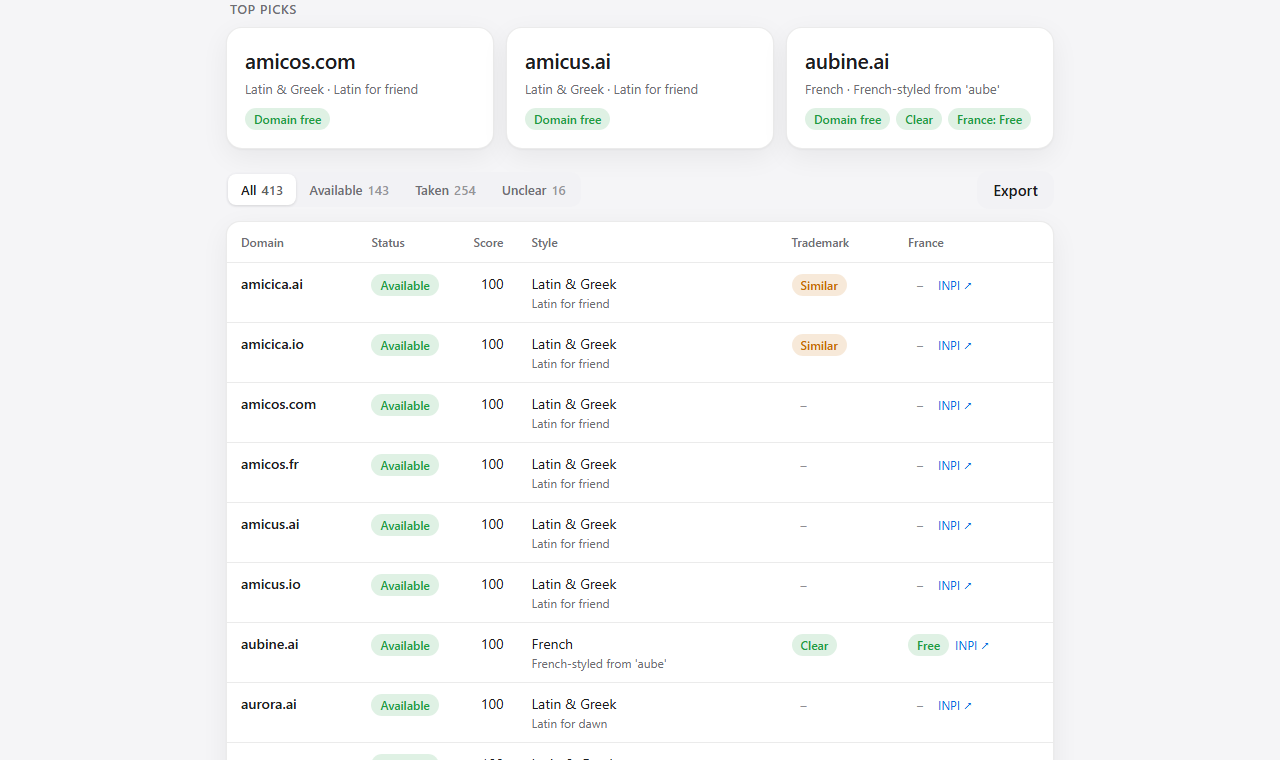
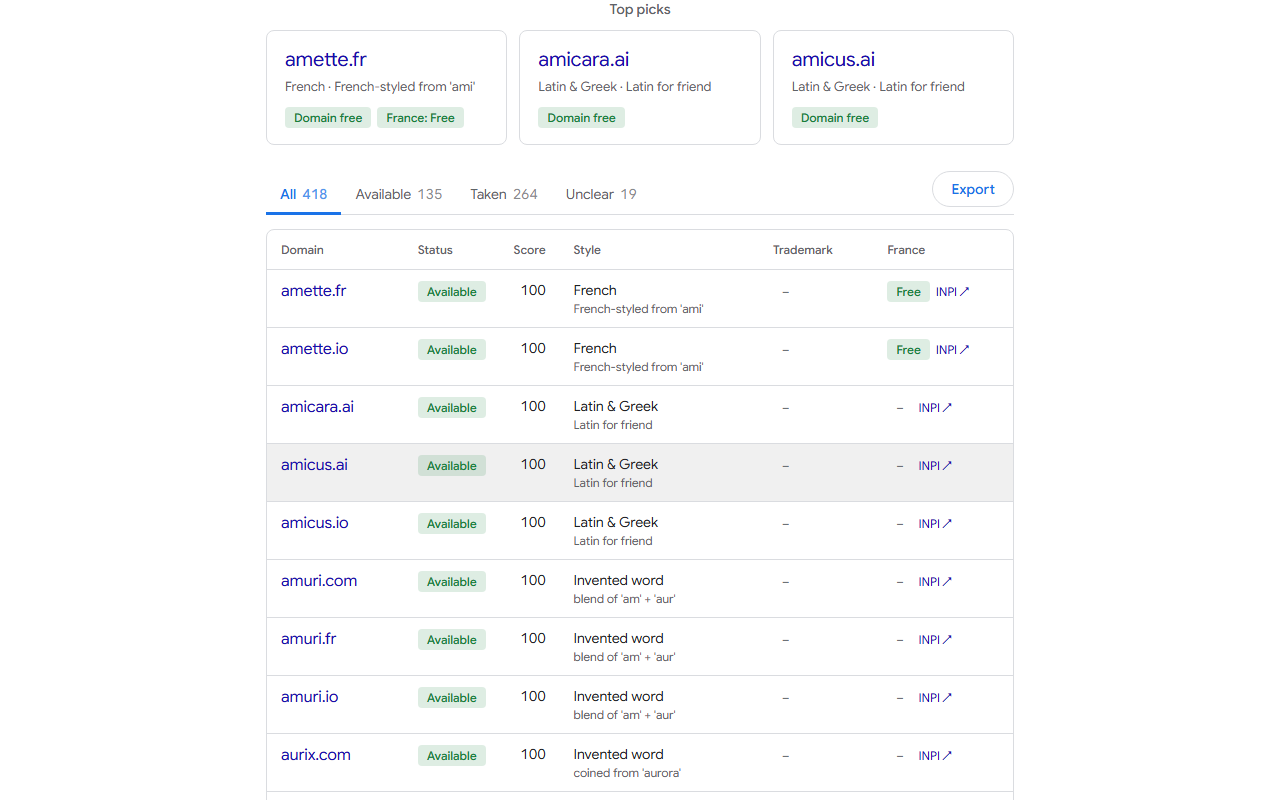
Google-style look and a light/dark mode switch
- Restyle the web UI after Google search: Google Sans font, centered
  wordmark, rounded search box with magnifier, centered Find names
  button, filter chips, tab-style result filters, link-blue domains,
  Google light and dark palettes.
- Round button in the top-right corner switches light/dark mode.
  Light is the default; the user's choice is remembered.
- README and screenshots updated.

diff --git a/namestack/server.py b/namestack/server.py
@@ -35,163 +35,185 @@ INDEX_HTML = r"""<!doctype html>
 <meta charset="utf-8">
 <meta name="viewport" content="width=device-width, initial-scale=1">
 <title>namestack</title>
+<link rel="preconnect" href="https://fonts.googleapis.com">
+<link rel="preconnect" href="https://fonts.gstatic.com" crossorigin>
+<link rel="stylesheet" href="https://fonts.googleapis.com/css2?family=Google+Sans:wght@400;500;700&display=swap">
+<script>
+try{ const t=localStorage.getItem('namestack.theme'); if(t==='light'||t==='dark') document.documentElement.dataset.theme=t; }catch{}
+</script>
 <style>
 :root{
-  --bg:#f5f5f7; --card:#fff; --field:#f2f2f5; --sep:rgba(0,0,0,.08); --text:#1d1d1f; --muted:#6e6e73;
-  --accent:#0071e3; --accent-soft:rgba(0,113,227,.1); --green:#1f9d3f; --red:#e0352b; --orange:#c76b00; --gray:#8e8e93;
-  --shadow:0 1px 2px rgba(0,0,0,.04),0 8px 28px rgba(0,0,0,.06); --tip-bg:rgba(29,29,31,.94); --tip-text:#fff;
-  color-scheme:light;
+  --bg:#fff; --card:#fff; --field:#f1f3f4; --hover:rgba(60,64,67,.08); --sep:#dadce0; --text:#202124; --muted:#5f6368;
+  --accent:#1a73e8; --on-accent:#fff; --accent-soft:#e8f0fe; --accent-text:#1967d2; --link:#1a0dab;
+  --green:#188038; --red:#d93025; --orange:#b06000; --gray:#5f6368;
+  --lift:0 1px 6px rgba(32,33,36,.28); --menu-shadow:0 2px 10px rgba(32,33,36,.2);
+  --tip-bg:#3c4043; --tip-text:#fff; color-scheme:light;
 }
-@media (prefers-color-scheme:dark){:root:not([data-theme="light"]){
-  --bg:#000; --card:#1c1c1e; --field:#2c2c2e; --sep:rgba(255,255,255,.1); --text:#f5f5f7; --muted:#98989d;
-  --accent:#0a84ff; --accent-soft:rgba(10,132,255,.16); --green:#30d158; --red:#ff453a; --orange:#ff9f0a; --gray:#8e8e93;
-  --shadow:none; --tip-bg:rgba(242,242,247,.96); --tip-text:#1d1d1f; color-scheme:dark;
-}}
 :root[data-theme="dark"]{
-  --bg:#000; --card:#1c1c1e; --field:#2c2c2e; --sep:rgba(255,255,255,.1); --text:#f5f5f7; --muted:#98989d;
-  --accent:#0a84ff; --accent-soft:rgba(10,132,255,.16); --green:#30d158; --red:#ff453a; --orange:#ff9f0a; --gray:#8e8e93;
-  --shadow:none; --tip-bg:rgba(242,242,247,.96); --tip-text:#1d1d1f; color-scheme:dark;
+  --bg:#202124; --card:#303134; --field:#303134; --hover:rgba(232,234,237,.08); --sep:#5f6368; --text:#e8eaed; --muted:#9aa0a6;
+  --accent:#8ab4f8; --on-accent:#202124; --accent-soft:#394457; --accent-text:#d2e3fc; --link:#8ab4f8;
+  --green:#81c995; --red:#f28b82; --orange:#fdd663; --gray:#9aa0a6;
+  --lift:0 1px 6px rgba(0,0,0,.5); --menu-shadow:0 2px 10px rgba(0,0,0,.5);
+  --tip-bg:#e8eaed; --tip-text:#202124; color-scheme:dark;
 }
 *{box-sizing:border-box}
-body{margin:0;background:var(--bg);color:var(--text);min-height:100vh;-webkit-font-smoothing:antialiased;
-  font-family:-apple-system,BlinkMacSystemFont,"SF Pro Text","Segoe UI Variable","Segoe UI",system-ui,Roboto,Helvetica,Arial,sans-serif}
+body{margin:0;background:var(--bg);color:var(--text);min-height:100vh;transition:background .2s,color .2s;
+  font-family:"Google Sans",Roboto,Arial,sans-serif}
 button,input,select{font-family:inherit;color:inherit}
-.wrap{max-width:860px;margin:0 auto;padding:64px 16px 80px}
-.hero{text-align:center;margin-bottom:28px}
-.hero h1{font-size:44px;line-height:1.08;font-weight:700;letter-spacing:-.025em;margin:0 0 10px}
-.hero p{font-size:19px;color:var(--muted);margin:0}
+.topbar{display:flex;justify-content:flex-end;align-items:center;padding:10px 16px}
+.icon-btn{width:40px;height:40px;border-radius:50%;border:0;background:transparent;display:grid;place-items:center;cursor:pointer;color:var(--muted)}
+.icon-btn:hover{background:var(--hover)}
+.icon-btn svg{width:22px;height:22px;fill:currentColor}
+.wrap{max-width:780px;margin:0 auto;padding:28px 16px 80px}
+.hero{text-align:center;margin-bottom:26px}
+.logo{font-size:64px;line-height:1;font-weight:500;letter-spacing:-.02em;margin:0 0 14px}
+.logo span{color:var(--accent)}
+.hero p{font-size:16px;color:var(--muted);margin:0 auto;max-width:560px;line-height:1.5}
 
-.search{display:flex;align-items:center;gap:12px;background:var(--card);border-radius:18px;padding:8px 10px 8px 20px;
-  box-shadow:var(--shadow);border:1px solid var(--sep)}
-.search:focus-within{border-color:var(--accent);box-shadow:0 0 0 4px var(--accent-soft)}
+.search{display:flex;align-items:flex-start;gap:14px;background:var(--card);border:1px solid var(--sep);border-radius:24px;
+  padding:4px 22px;transition:box-shadow .15s,border-color .15s}
+.search:hover,.search:focus-within{box-shadow:var(--lift);border-color:transparent}
+.search .mag{width:20px;height:20px;fill:var(--muted);flex:none;margin-top:30px}
 .fields{flex:1;min-width:0}
-.fld{display:block;padding:9px 0;cursor:text}
+.fld{display:block;padding:10px 0;cursor:text}
 .fld+.fld{border-top:1px solid var(--sep)}
-.fld .lbl{display:block;font-size:12px;font-weight:600;color:var(--muted);letter-spacing:.01em}
-.search input{width:100%;border:0;outline:0;background:transparent;font-size:19px;padding:3px 0 0}
-.search input::placeholder{color:var(--gray)}
-.btn{border:0;border-radius:12px;font-size:15px;font-weight:600;cursor:pointer;transition:background .15s,opacity .15s,transform .05s}
-.btn:active{transform:scale(.98)}
-.btn-primary{background:var(--accent);color:#fff;padding:13px 24px;font-size:17px;white-space:nowrap}
-.btn-primary:hover{filter:brightness(1.08)}
-.btn-primary.stop{background:var(--field);color:var(--text)}
-.btn-plain{background:var(--field);padding:9px 16px}
+.fld .lbl{display:block;font-size:12px;font-weight:500;color:var(--muted)}
+.search input{width:100%;border:0;outline:0;background:transparent;font-size:16px;padding:4px 0 0}
+.search input::placeholder{color:var(--muted);opacity:.75}
+.actions{display:flex;justify-content:center;margin-top:24px}
+.btn{border:0;border-radius:20px;font-size:14px;font-weight:500;cursor:pointer;transition:background .15s,box-shadow .15s;letter-spacing:.01em}
+.btn-primary{background:var(--accent);color:var(--on-accent);padding:0 26px;height:40px;white-space:nowrap}
+.btn-primary:hover{box-shadow:0 1px 3px rgba(60,64,67,.3),0 4px 8px 3px rgba(60,64,67,.15)}
+.btn-primary.stop{background:var(--field);color:var(--text);border:1px solid var(--sep)}
+.btn-plain{background:transparent;border:1px solid var(--sep);color:var(--accent);padding:0 18px;height:36px}
+.btn-plain:hover{background:var(--hover)}
 .btn-plain:disabled{opacity:.4;cursor:default}
-.words{min-height:20px;margin:12px 4px 0;font-size:13px;color:var(--muted);text-align:center;line-height:1.7}
-.words b{font-weight:600;color:var(--text);margin-right:4px}
+.words{min-height:20px;margin:14px 4px 0;font-size:13px;color:var(--muted);text-align:center;line-height:1.7}
+.words b{font-weight:500;color:var(--text);margin-right:4px}
 .words .w{white-space:nowrap}
 
-.section-label{font-size:13px;font-weight:600;color:var(--muted);text-transform:uppercase;letter-spacing:.04em;margin:30px 4px 10px}
-.styles{display:flex;flex-wrap:wrap;gap:8px}
-.chip{cursor:pointer;user-select:none;border:1px solid var(--sep);background:var(--card);border-radius:999px;padding:8px 15px;
-  font-size:14px;font-weight:500;transition:background .15s,border-color .15s,color .15s}
-.chip:hover{border-color:var(--gray)}
-.chip.on{background:var(--accent);border-color:var(--accent);color:#fff}
-.chip .flag{font-size:11px;font-weight:700;opacity:.75;margin-left:5px;letter-spacing:.03em}
+.section-label{font-size:14px;font-weight:500;color:var(--muted);text-align:center;margin:30px 4px 12px}
+.styles{display:flex;flex-wrap:wrap;gap:8px;justify-content:center}
+.chip{cursor:pointer;user-select:none;border:1px solid var(--sep);background:transparent;border-radius:8px;height:32px;padding:0 14px;
+  font-size:14px;font-weight:500;color:var(--muted);transition:background .15s,border-color .15s,color .15s;display:inline-flex;align-items:center}
+.chip:hover{background:var(--hover)}
+.chip.on{background:var(--accent-soft);border-color:transparent;color:var(--accent-text)}
+.chip.on::before{content:"\2713";margin-right:6px;font-weight:700}
+.chip .flag{font-size:11px;font-weight:700;opacity:.7;margin-left:6px;letter-spacing:.03em}
 
-.group{background:var(--card);border-radius:14px;box-shadow:var(--shadow);border:1px solid var(--sep);overflow:hidden;margin-top:28px}
+.group{background:var(--card);border:1px solid var(--sep);border-radius:8px;overflow:hidden;margin-top:30px}
 .group details+details{border-top:1px solid var(--sep)}
-.group summary{list-style:none;cursor:pointer;display:flex;align-items:center;gap:12px;padding:14px 18px;font-size:16px}
+.group summary{list-style:none;cursor:pointer;display:flex;align-items:center;gap:12px;padding:14px 18px;font-size:15px}
+.group summary:hover{background:var(--hover)}
 .group summary::-webkit-details-marker{display:none}
 .group summary .t{font-weight:500}
-.group summary .v{margin-left:auto;color:var(--muted);font-size:15px;text-align:right;overflow:hidden;text-overflow:ellipsis;white-space:nowrap}
+.group summary .v{margin-left:auto;color:var(--muted);font-size:14px;text-align:right;overflow:hidden;text-overflow:ellipsis;white-space:nowrap}
 .group summary .v.ok{color:var(--green)}
-.group summary::after{content:"";width:8px;height:8px;border-right:2px solid var(--gray);border-bottom:2px solid var(--gray);
-  transform:rotate(-45deg);transition:transform .2s;flex:none;margin-left:4px}
-.group details[open] summary::after{transform:rotate(45deg)}
-.panel{padding:4px 18px 18px;display:grid;gap:14px}
-.panel .hint{font-size:13px;color:var(--muted);margin:0;line-height:1.45}
+.group summary::after{content:"";width:7px;height:7px;border-right:2px solid var(--muted);border-bottom:2px solid var(--muted);
+  transform:rotate(45deg);transition:transform .2s;flex:none;margin:0 2px 4px 4px}
+.group details[open] summary::after{transform:rotate(-135deg);margin-bottom:-4px}
+.panel{padding:6px 18px 18px;display:grid;gap:14px}
+.panel .hint{font-size:13px;color:var(--muted);margin:0;line-height:1.5}
 .line{display:flex;align-items:center;gap:12px;flex-wrap:wrap}
 .line label{font-size:14px}
 .line .grow{flex:1}
-.field{background:var(--field);border:1px solid transparent;border-radius:10px;padding:9px 12px;font-size:14px;outline:0}
-.field:focus{border-color:var(--accent)}
+.field{background:transparent;border:1px solid var(--sep);border-radius:4px;padding:9px 12px;font-size:14px;outline:0}
+.field:focus{border-color:var(--accent);box-shadow:inset 0 0 0 1px var(--accent)}
+select.field{background:var(--card)}
 input[type=range]{accent-color:var(--accent);width:150px}
 input[type=number].field{width:84px}
 .val{font-variant-numeric:tabular-nums;color:var(--muted);font-size:14px;min-width:28px}
-.switch{position:relative;display:inline-flex;align-items:center;gap:10px;cursor:pointer;font-size:14px}
-.switch input{appearance:none;-webkit-appearance:none;width:42px;height:26px;border-radius:999px;background:var(--field);
-  border:1px solid var(--sep);position:relative;cursor:pointer;transition:background .2s;margin:0;flex:none}
-.switch input::after{content:"";position:absolute;top:2px;left:2px;width:20px;height:20px;border-radius:50%;background:#fff;
-  box-shadow:0 1px 3px rgba(0,0,0,.3);transition:transform .2s}
-.switch input:checked{background:var(--green);border-color:transparent}
-.switch input:checked::after{transform:translateX(16px)}
+.switch{position:relative;display:inline-flex;align-items:center;gap:12px;cursor:pointer;font-size:14px}
+.switch input{appearance:none;-webkit-appearance:none;width:36px;height:14px;border-radius:999px;background:var(--sep);
+  position:relative;cursor:pointer;transition:background .2s;margin:0 4px;flex:none;border:0}
+.switch input::after{content:"";position:absolute;top:-3px;left:-4px;width:20px;height:20px;border-radius:50%;background:#fff;
+  box-shadow:0 1px 3px rgba(0,0,0,.4);transition:transform .2s,background .2s}
+.switch input:checked{background:color-mix(in srgb,var(--accent) 50%,transparent)}
+.switch input:checked::after{transform:translateX(24px);background:var(--accent)}
 .switch input:disabled{opacity:.4;cursor:default}
 .tlds{display:flex;flex-wrap:wrap;gap:6px}
-.tlds .chip{padding:6px 12px;font-size:13px}
+.tlds .chip{height:30px;padding:0 11px;font-size:13px}
 .ai-grid{display:grid;grid-template-columns:110px 1fr;gap:10px;align-items:center}
 .ai-grid label{font-size:14px;color:var(--muted)}
 
 #results{display:none;margin-top:44px}
 #results.show{display:block}
-.progress{height:4px;background:var(--field);border-radius:999px;overflow:hidden}
+.progress{height:4px;background:var(--accent-soft);border-radius:999px;overflow:hidden}
 #bar{height:100%;width:0;background:var(--accent);transition:width .25s}
 .meta{display:flex;justify-content:space-between;font-size:13px;color:var(--muted);margin:8px 2px 18px}
-.picks{display:grid;grid-template-columns:repeat(auto-fit,minmax(220px,1fr));gap:12px;margin-bottom:22px}
-.pick{background:var(--card);border:1px solid var(--sep);border-radius:16px;padding:18px;box-shadow:var(--shadow)}
-.pick .d{font-size:21px;font-weight:600;letter-spacing:-.01em;word-break:break-all}
-.pick .s{font-size:13px;color:var(--muted);margin-top:6px;line-height:1.4}
+.picks{display:grid;grid-template-columns:repeat(auto-fit,minmax(220px,1fr));gap:12px;margin-bottom:26px}
+.pick{background:var(--card);border:1px solid var(--sep);border-radius:8px;padding:16px 18px}
+.pick .d{font-size:20px;color:var(--link);word-break:break-all}
+.pick .s{font-size:13px;color:var(--muted);margin-top:6px;line-height:1.45}
 .pick .tags{display:flex;gap:6px;flex-wrap:wrap;margin-top:10px}
-.toolbar{display:flex;align-items:center;gap:10px;flex-wrap:wrap;margin-bottom:12px}
-.seg{display:inline-flex;background:var(--field);border-radius:10px;padding:2px;flex-wrap:wrap}
-.seg button{border:0;background:transparent;border-radius:8px;padding:7px 13px;font-size:13px;font-weight:500;cursor:pointer;color:var(--muted)}
-.seg button.on{background:var(--card);color:var(--text);box-shadow:0 1px 3px rgba(0,0,0,.12)}
-.seg .n{font-variant-numeric:tabular-nums;margin-left:5px;opacity:.7}
-.menu{position:relative;margin-left:auto}
-.menu summary{list-style:none}
+.toolbar{display:flex;align-items:flex-end;gap:10px;flex-wrap:wrap;margin-bottom:14px;border-bottom:1px solid var(--sep)}
+.seg{display:inline-flex;flex-wrap:wrap}
+.seg button{border:0;background:transparent;padding:10px 14px 9px;font-size:14px;cursor:pointer;color:var(--muted);
+  border-bottom:3px solid transparent;margin-bottom:-1px}
+.seg button:hover{color:var(--text)}
+.seg button.on{color:var(--accent);border-bottom-color:var(--accent);font-weight:500}
+.seg .n{font-variant-numeric:tabular-nums;margin-left:6px;opacity:.75}
+.menu{position:relative;margin:0 0 7px auto}
+.menu summary{list-style:none;display:inline-flex;align-items:center}
 .menu summary::-webkit-details-marker{display:none}
-.menu .items{position:absolute;right:0;top:calc(100% + 6px);background:var(--card);border:1px solid var(--sep);border-radius:12px;
-  box-shadow:0 10px 30px rgba(0,0,0,.15);padding:6px;min-width:190px;z-index:20}
-.menu .items button{display:block;width:100%;text-align:left;border:0;background:transparent;padding:9px 12px;border-radius:8px;font-size:14px;cursor:pointer}
-.menu .items button:hover{background:var(--field)}
+.menu .items{position:absolute;right:0;top:calc(100% + 6px);background:var(--card);border-radius:4px;
+  box-shadow:var(--menu-shadow);padding:8px 0;min-width:200px;z-index:20}
+.menu .items button{display:block;width:100%;text-align:left;border:0;background:transparent;padding:10px 16px;font-size:14px;cursor:pointer}
+.menu .items button:hover{background:var(--hover)}
 .menu.disabled summary{opacity:.4;pointer-events:none}
-.table-card{background:var(--card);border:1px solid var(--sep);border-radius:14px;box-shadow:var(--shadow);overflow:hidden}
+.table-card{background:var(--card);border:1px solid var(--sep);border-radius:8px;overflow:hidden}
 .table-wrap{overflow-x:auto}
 table{width:100%;border-collapse:collapse;font-size:14px}
 thead th{text-align:left;color:var(--muted);font-weight:500;font-size:12px;padding:12px 14px;border-bottom:1px solid var(--sep);white-space:nowrap}
 tbody td{padding:11px 14px;border-bottom:1px solid var(--sep);vertical-align:top}
 tbody tr:last-child td{border-bottom:0}
-.dom{font-weight:600}
+tbody tr:hover{background:var(--hover)}
+.dom{color:var(--link);font-size:16px}
 .num{text-align:right;font-variant-numeric:tabular-nums}
 .why{font-size:12px;color:var(--muted);margin-top:2px}
-.badge{display:inline-block;padding:3px 9px;border-radius:999px;font-size:12px;font-weight:600;white-space:nowrap}
+.badge{display:inline-block;padding:3px 9px;border-radius:4px;font-size:12px;font-weight:500;white-space:nowrap}
 .b-green{background:color-mix(in srgb,var(--green) 14%,transparent);color:var(--green)}
 .b-red{background:color-mix(in srgb,var(--red) 13%,transparent);color:var(--red)}
-.b-orange{background:color-mix(in srgb,var(--orange) 15%,transparent);color:var(--orange)}
+.b-orange{background:color-mix(in srgb,var(--orange) 16%,transparent);color:var(--orange)}
 .b-gray{background:color-mix(in srgb,var(--gray) 15%,transparent);color:var(--gray)}
 .b-none{color:var(--gray)}
-.ext{font-size:12px;color:var(--accent);text-decoration:none;margin-left:6px;white-space:nowrap}
+.ext{font-size:12px;color:var(--link);text-decoration:none;margin-left:6px;white-space:nowrap}
 .ext:hover{text-decoration:underline}
 .col-fr{display:none}
 .has-fr .col-fr{display:table-cell}
 .rowcount{color:var(--muted);font-size:12px;padding:10px 14px}
 .empty{padding:28px;text-align:center;color:var(--muted);font-size:14px}
 
-#tip{position:fixed;z-index:100;max-width:280px;background:var(--tip-bg);color:var(--tip-text);font-size:13px;line-height:1.4;
-  padding:8px 11px;border-radius:9px;pointer-events:none;opacity:0;transform:translateY(3px);transition:opacity .15s,transform .15s;
-  box-shadow:0 6px 20px rgba(0,0,0,.2)}
-#tip.show{opacity:1;transform:none}
-#toast{position:fixed;left:50%;bottom:28px;transform:translateX(-50%);background:var(--tip-bg);color:var(--tip-text);
-  border-radius:12px;padding:12px 18px;font-size:14px;display:none;max-width:calc(100vw - 32px);z-index:60}
+#tip{position:fixed;z-index:100;max-width:280px;background:var(--tip-bg);color:var(--tip-text);font-size:12px;line-height:1.45;
+  padding:7px 10px;border-radius:4px;pointer-events:none;opacity:0;transition:opacity .15s}
+#tip.show{opacity:1}
+#toast{position:fixed;left:50%;bottom:24px;transform:translateX(-50%);background:var(--tip-bg);color:var(--tip-text);
+  border-radius:4px;padding:14px 16px;font-size:14px;display:none;max-width:calc(100vw - 32px);z-index:60;box-shadow:var(--menu-shadow)}
 @media (max-width:640px){
-  .wrap{padding-top:36px}
-  .hero h1{font-size:32px}.hero p{font-size:16px}
-  .search{flex-wrap:wrap;padding:8px}
-  .fields{flex-basis:100%;padding:0 10px}
+  .wrap{padding-top:12px}
+  .logo{font-size:44px}.hero p{font-size:15px}
+  .search{padding:4px 16px}
+  .search .mag{display:none}
   .btn-primary{width:100%}
   .ai-grid{grid-template-columns:1fr}
-  .menu{margin-left:0}
 }
 </style>
 </head>
 <body>
+<div class="topbar">
+  <button class="icon-btn" id="themeBtn" type="button" aria-label="Switch to dark mode" data-tip="Switch to dark mode.">
+    <svg id="iconMoon" viewBox="0 0 24 24" aria-hidden="true"><path d="M12.3 22c-5.6 0-10.1-4.5-10.1-10.1 0-4.6 3-8.5 7.3-9.7.5-.1.9.4.7.9-.4 1-.6 2.1-.6 3.2 0 4.9 4 8.9 8.9 8.9 1.1 0 2.2-.2 3.2-.6.5-.2 1 .2.9.7C21.4 19.2 17.2 22 12.3 22z"/></svg>
+    <svg id="iconSun" viewBox="0 0 24 24" aria-hidden="true" style="display:none"><path d="M12 7a5 5 0 1 0 0 10 5 5 0 0 0 0-10zm0-5a1 1 0 0 1 1 1v2a1 1 0 1 1-2 0V3a1 1 0 0 1 1-1zm0 17a1 1 0 0 1 1 1v2a1 1 0 1 1-2 0v-2a1 1 0 0 1 1-1zM3 11h2a1 1 0 1 1 0 2H3a1 1 0 1 1 0-2zm16 0h2a1 1 0 1 1 0 2h-2a1 1 0 1 1 0-2zM5.6 4.2l1.4 1.4a1 1 0 0 1-1.4 1.4L4.2 5.6a1 1 0 0 1 1.4-1.4zm12.8 12.8 1.4 1.4a1 1 0 0 1-1.4 1.4L17 18.4a1 1 0 0 1 1.4-1.4zM4.2 18.4 5.6 17A1 1 0 0 1 7 18.4l-1.4 1.4a1 1 0 0 1-1.4-1.4zM17 5.6l1.4-1.4a1 1 0 0 1 1.4 1.4L18.4 7A1 1 0 0 1 17 5.6z"/></svg>
+  </button>
+</div>
 <div class="wrap">
   <div class="hero">
-    <h1>Find your startup name.</h1>
-    <p>Give us words you love and three words about what you're building. We'll invent names, check the domains and screen trademarks.</p>
+    <h1 class="logo">name<span>stack</span></h1>
+    <p>Find your startup name. Give us words you love and three words about what you're building: we'll invent names, check the domains and screen trademarks.</p>
   </div>
 
   <div class="search">
+    <svg class="mag" viewBox="0 0 24 24" aria-hidden="true"><path d="M15.5 14h-.8l-.3-.3A6.5 6.5 0 1 0 9.5 16a6.5 6.5 0 0 0 4.2-1.6l.3.3v.8l5 5 1.5-1.5-5-5zm-6 0a4.5 4.5 0 1 1 0-9 4.5 4.5 0 0 1 0 9z"/></svg>
     <div class="fields">
       <label class="fld" data-tip="Your favorite words: ones that mean something to you or just sound cool. Separate them with commas.">
         <span class="lbl">Words you love</span>
@@ -200,11 +222,13 @@ tbody tr:last-child td{border-bottom:0}
         <span class="lbl">What you're building, in 3 words</span>
         <input type="text" id="seeds" placeholder="coffee, friends, morning" autocomplete="off"></label>
     </div>
-    <button class="btn btn-primary" id="run" data-tip="Generate names in the styles below, check every domain live, then screen the free ones for trademarks.">Find names</button>
   </div>
   <div class="words" id="related"></div>
+  <div class="actions">
+    <button class="btn btn-primary" id="run" data-tip="Generate names in the styles below, check every domain live, then screen the free ones for trademarks.">Find names</button>
+  </div>
 
-  <div class="section-label">Style</div>
+  <div class="section-label">Naming styles</div>
   <div class="styles" id="vibes"></div>
 
   <div class="group">
@@ -249,7 +273,7 @@ tbody tr:last-child td{border-bottom:0}
           <label class="switch" data-tip="Keep the key in this browser so AI unlocks automatically next time."><input type="checkbox" id="aiRemember"> Remember on this device</label>
           <span class="grow"></span>
           <button class="btn btn-plain" id="aiClear" disabled data-tip="Forget the key and turn AI off.">Disconnect</button>
-          <button class="btn btn-primary" id="aiConfirm" style="padding:9px 16px;font-size:15px" data-tip="Test the key with your provider and turn AI on.">Connect</button>
+          <button class="btn btn-primary" id="aiConfirm" data-tip="Test the key with your provider and turn AI on.">Connect</button>
         </div>
         <label class="switch" data-tip="Turn AI ideas on or off for the next search without removing your key."><input type="checkbox" id="useAi" disabled> Use AI for the next search</label>
       </div>
@@ -644,8 +668,23 @@ $('filters').addEventListener('click',(e)=>{
 });
 document.addEventListener('click',(e)=>{ if(!e.target.closest('#exportMenu')) $('exportMenu').open=false; });
 
+// Light / dark switch. Light by default; the user's pick is remembered.
+const THEME_KEY='namestack.theme';
+function currentTheme(){ return document.documentElement.dataset.theme==='dark'?'dark':'light'; }
+function paintThemeButton(){
+  const dark=currentTheme()==='dark', label=dark?'Switch to light mode':'Switch to dark mode';
+  $('iconMoon').style.display=dark?'none':''; $('iconSun').style.display=dark?'':'none';
+  $('themeBtn').setAttribute('aria-label',label); $('themeBtn').dataset.tip=label+'.';
+}
+$('themeBtn').addEventListener('click',()=>{
+  const next=currentTheme()==='dark'?'light':'dark';
+  document.documentElement.dataset.theme=next;
+  try{ localStorage.setItem(THEME_KEY,next); }catch{}
+  hideTip(); paintThemeButton();
+});
+
 (async function init(){
-  tip.el=$('tip');
+  tip.el=$('tip'); paintThemeButton();
   buildTlds(); updateSummaries();
   try{
     const meta=await (await fetch('/api/meta')).json();

diff --git a/README.md b/README.md
@@ -89,7 +89,7 @@ Open your browser yourself and go to **http://127.0.0.1:8787**
 
 ## What each button does
 
-The screen is built around one button: type your idea, press **Find names** (or Enter), done. Everything else is tucked into collapsible rows you never have to open. **Hover over any button for 2 seconds** and a short explanation pops up.
+The screen is built around one button: type your idea, press **Find names** (or Enter), done. Everything else is tucked into collapsible rows you never have to open. **Hover over any button for 2 seconds** and a short explanation pops up. The round button in the top-right corner switches between light and dark mode. The app opens in light mode and remembers your choice.
 
 ### 1. Your idea
 | Thing | What it does |
